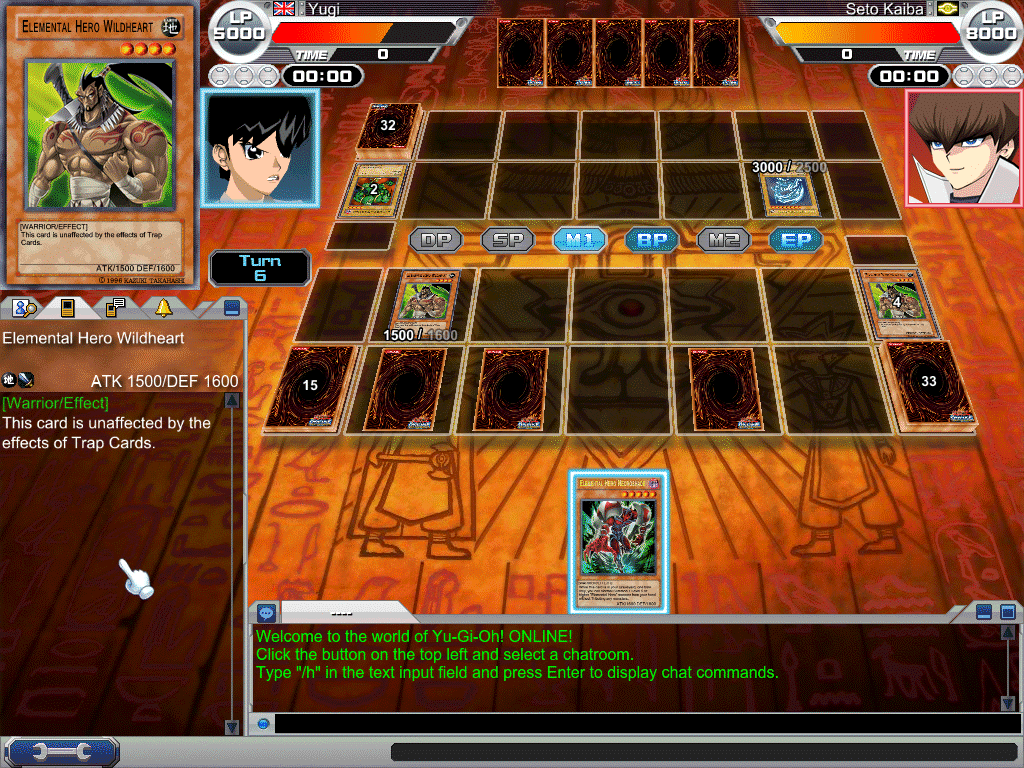
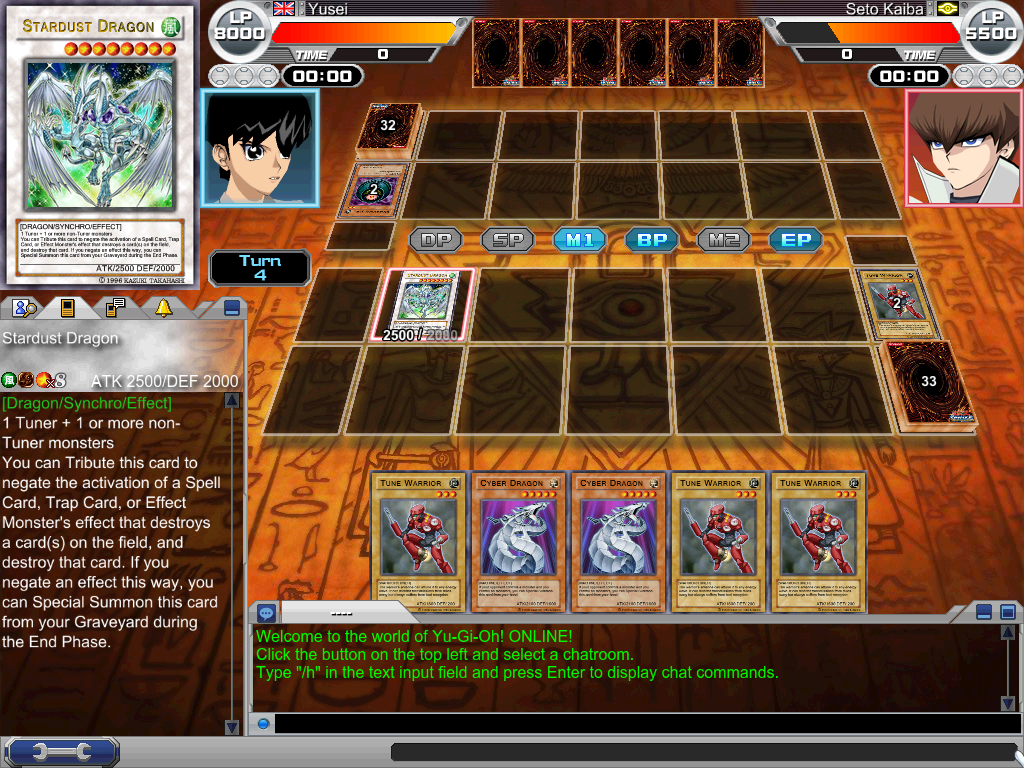
docs: lead with gameplay and refresh showcase screenshots

diff --git a/README.md b/README.md
@@ -3,7 +3,18 @@
 A private server and launcher for the retired **Yu-Gi-Oh! ONLINE 3 (Duel Accelerator)**. Play again against the
 computer or with friends, using the original game client on your own server.
 
-![The original game client in a duel against Seto Kaiba, running on Revival](screenshots/duel.png)
+## In the game
+
+Duel against Kaiba or challenge friends. Build and edit decks, open booster packs, trade cards and chat in the
+original game world.
+
+![Stardust Dragon on the field in the original game client, running on Revival](screenshots/duel.png)
+
+| Duel against Kaiba | Build your deck |
+| --- | --- |
+| ![Meet Seto Kaiba at Kaiba Corporation](screenshots/kaiba.png) | ![Elemental Hero Shining Flare Wingman selected in the deck editor](screenshots/decks.png) |
+
+[Features and limitations](docs/playing.md#features-and-limitations) · [Development roadmap](docs/roadmap.md)
 
 ## Start playing
 
@@ -29,14 +40,6 @@ Use **64-bit Windows 10/11**, or **Linux with Wine**. [Game installation help](d
   invitations for friends. [Hosting guide](docs/launcher.md#host-friends).
 - **Scripts edition:** Follow the [terminal hosting setup](docs/scripts.md#host-friends) and
   [server and account commands](docs/guide.md).
-
-## In the game
-
-| Duel against Kaiba | Official character decks |
-| --- | --- |
-| ![Meet Seto Kaiba at Kaiba Corporation](screenshots/kaiba.png) | ![Choose from the Yugi, Jaden and Yusei decks](screenshots/decks.png) |
-
-[Features and limitations](docs/playing.md#features-and-limitations) · [Development roadmap](docs/roadmap.md)
 
 Pre-alpha: [report bugs](https://github.com/usersina/yo3-revival/issues/new/choose).
 [MIT](LICENSE) · [Project, credits and support](docs/about.md). Unaffiliated with Konami.

diff --git a/docs/playing.md b/docs/playing.md
@@ -31,7 +31,7 @@ Your first starting deck is prepared and selected automatically. You can duel wi
 In a duel, left-click a hand card for its default action; right-click it for the available actions.
 Use the phase buttons to enter the Battle Phase, Main Phase 2 or End Phase.
 
-![A duel against Kaiba](../screenshots/duel.png)
+![Stardust Dragon on the field during a duel](../screenshots/duel.png)
 
 ## Play with a friend
 
@@ -52,7 +52,7 @@ Drag a card after briefly hovering it. The Yugi, Jaden and Yusei character decks
 
 ![Main Menu and Edit Deck](../screenshots/edit-deck.png)
 
-![Official character decks](../screenshots/decks.png)
+![Elemental Hero Shining Flare Wingman selected in the deck editor](../screenshots/decks.png)
 
 Automatic starting-deck setup runs once for a fresh player profile. Existing decks and selections are kept,
 including unfinished decks and any later edits or deletions. It will not recreate a deck you deliberately removed.
